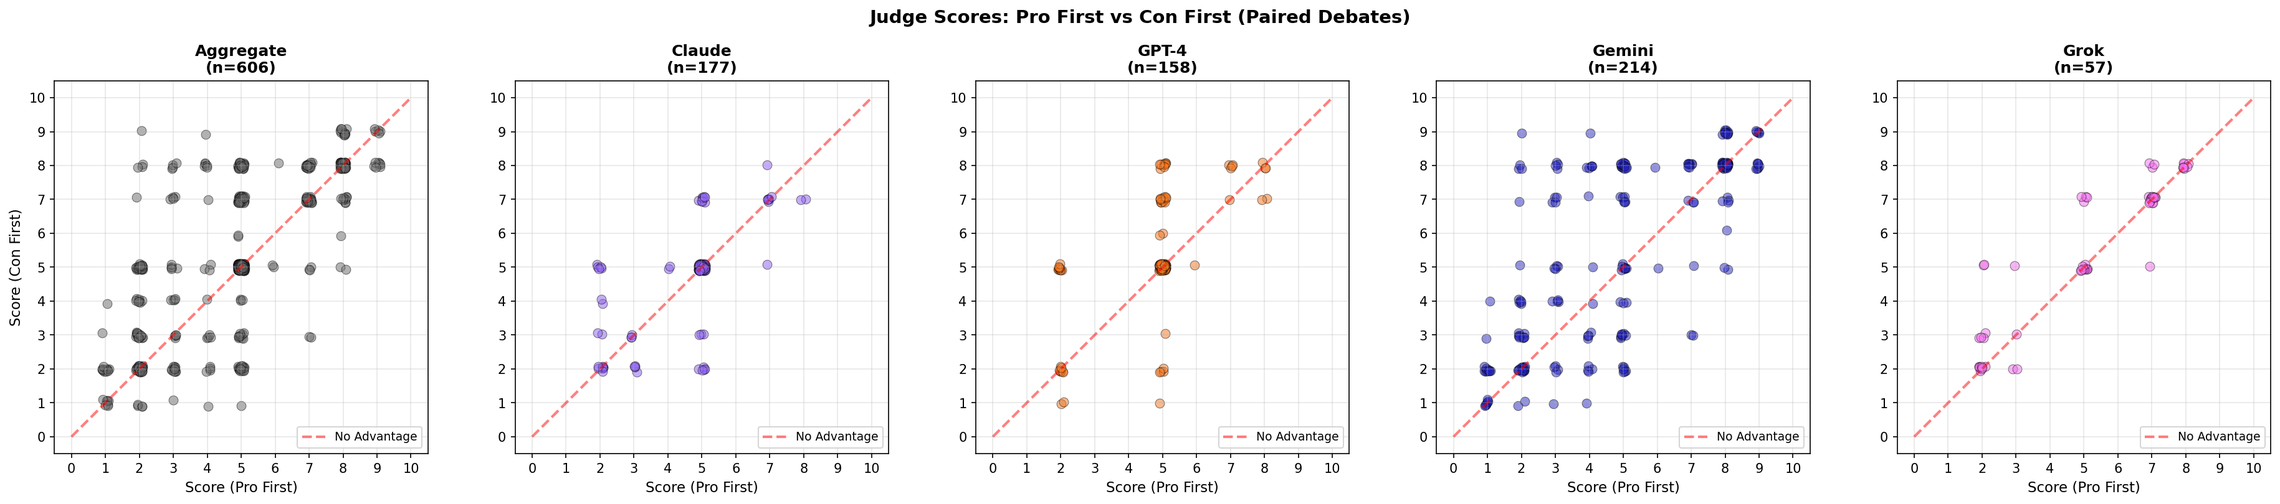
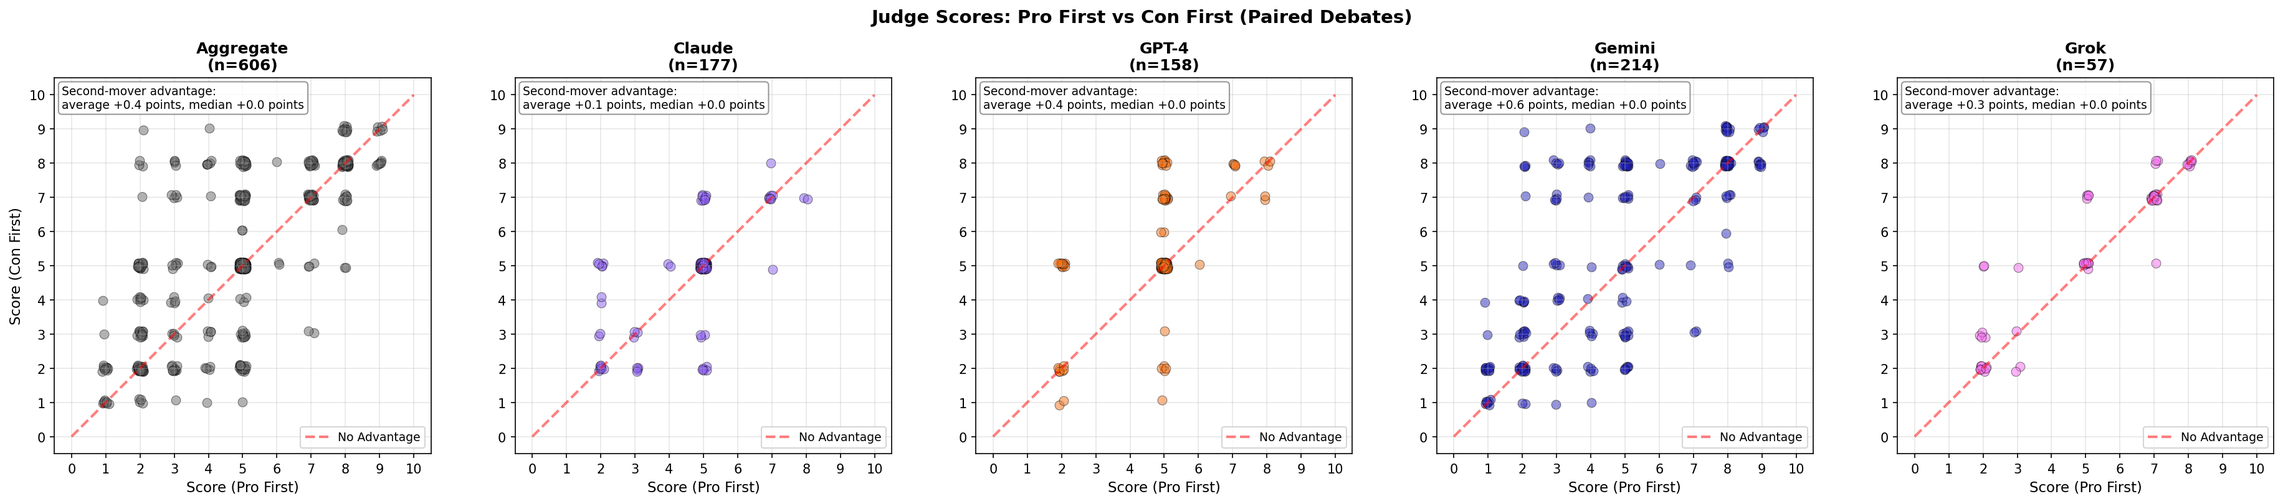
"final" version of writeup

diff --git a/plotting/scripts/create_first_mover_advantage_scatterplot.py b/plotting/scripts/create_first_mover_advantage_scatterplot.py
@@ -166,6 +166,11 @@ def create_first_mover_advantage_scatterplot(output_filename):
             pro_first_scores = [s[0] for s in scores]
             con_first_scores = [s[1] for s in scores]
 
+            # Calculate second-mover advantage (con_first - pro_first)
+            second_mover_advantages = [con - pro for pro, con in zip(pro_first_scores, con_first_scores)]
+            avg_advantage = np.mean(second_mover_advantages)
+            median_advantage = np.median(second_mover_advantages)
+
             # Add jitter to avoid overplotting
             jitter_amount = 0.1
             pro_jittered = [s + np.random.uniform(-jitter_amount, jitter_amount) for s in pro_first_scores]
@@ -176,6 +181,12 @@ def create_first_mover_advantage_scatterplot(output_filename):
 
             # Add diagonal line (no advantage)
             ax.plot([0, 10], [0, 10], 'r--', linewidth=2, alpha=0.5, label='No Advantage')
+
+            # Add second-mover advantage text
+            advantage_text = f'Second-mover advantage:\naverage {avg_advantage:+.1f} points, median {median_advantage:+.1f} points'
+            ax.text(0.02, 0.98, advantage_text, transform=ax.transAxes,
+                   fontsize=9, verticalalignment='top',
+                   bbox=dict(boxstyle='round', facecolor='white', alpha=0.8, edgecolor='gray'))
 
         # Formatting
         ax.set_xlim(-0.5, 10.5)

diff --git a/README.md b/README.md
@@ -15,10 +15,11 @@
 * [Debate Claim Data](#debate-claim-data)
 * [Results and Analysis](#results-and-analysis)
   * [Consistency](#consistency)
-  * [Aggregate Observations of Debaters and Judges](#aggregate-observations-of-debaters-and-judges)
-  * [Examples of Gemini Loving Claude](#examples-of-gemini-loving-claude)
+  * [Who Persuades Whom](#who-persuades-whom)
+  * [Inter-Judge Agreement](#inter-judge-agreement)
+  * [Examples of Gemini's Affinity for Claude](#examples-of-geminis-affinity-for-claude)
   * [Second-Mover Advantage](#second-mover-advantage)
-  * [Easily-Argued Claims (or Implicit Bias)](#easily-argued-claims-or-implicit-bias)
+  * [Easily-Argued Claims or Implicit Bias](#easily-argued-claims-or-implicit-bias)
   * [No Long-Range Stability](#no-long-range-stability)
 * [Further Directions](#further-directions)
 * [Conclusion](#conclusion)
@@ -28,31 +29,33 @@
 We implement [AI Safety Via Debate](https://arxiv.org/abs/1805.00899) (Irving et al., 2018), a proposed mechanism for AI alignment, within the context of natural language debates between LLMs. Through extensive experimentation, we uncover a number of systematic biases that emerge across models, which should be addressed before using this mechanism for RL.
 
 This implementation comprises the following steps, which are each elaborated upon in more detail below.
-- We implement an end-to-end pipeline for running automated debates with two LLM debaters and an LLM judge. This is pipeline is also deployed as a web app [here](https://ai-debate-4-u.vercel.app/).
+- We implement an end-to-end pipeline for running automated debates with two LLM debaters and an LLM judge. This pipeline is also deployed as a web app [here](https://ai-debate-4-u.vercel.app/).
 - We source, clean, and verify datasets of claims to be debated from a variety of sources:
   - the Google Fact Check Tools API;
   - direct generation via LLM;
   - debate motions from popular debate podcasts.
 - We run 280 debates in total, and analyze the results from a number of different angles.
 
-We begin with a brief discussion of the context for this demo project, and we conclude by enumerating some open directions for further investigation.
+We begin with a brief discussion of the context for this demo project, and we conclude by enumerating some open directions for further investigation. (Readers primarily interested in outcomes can skip directly to [Results and Analysis](#results-and-analysis).)
 
-The code itself was written in collaboration with OpenAI Codex (for the web app) and Claude Code (for everything else). The repo itself is carefully organized for further iteration, with extensive technical documentation in [`docs/`](docs/) (see particularly [docs/claude.md](docs/claude.md)). Please feel free to experiment and make a PR!
+The code itself was written in collaboration with OpenAI Codex (for the web app) and Claude Code (for everything else). The repo itself is carefully organized for further iteration, with extensive technical documentation in [`docs/`](docs/) (see particularly [docs/claude.md](docs/claude.md)). Please feel free to run more experiments or analysis and make a PR!
 
 ## Background
 
-The 2018 paper [AI Safety Via Debate](https://arxiv.org/abs/1805.00899) proposes a mechanism for AI alignment: training agents via self-play in a zero-sum debate game. It is proposed that this may be useful in contexts where a human can adequately judge the end result despite not being able to evaluate turn-by-turn performance. (This is the case with complex games like Go or Chess, and the paper draws an extensive analogy with the distinction between P and NP algorithms.) As a proof-of-concept, this is implemented within the context of a very simple "debate" game: given a handwritten digit image from the MNIST dataset, two debater models try to convince a judge model of the true label by iterative revealing pixels turn-by-turn.
+The 2018 paper [AI Safety Via Debate](https://arxiv.org/abs/1805.00899) proposes a mechanism for AI alignment: training agents via self-play in a zero-sum debate game. It is proposed that this may be useful in contexts where a human can adequately judge the end result despite not being able to evaluate turn-by-turn performance. (This is the case with complex games like Go or Chess, and the paper draws an extensive analogy with the distinction between P and NP algorithms.) As a proof-of-concept, this is implemented within the context of a very simple "debate" game: given a handwritten digit image from the MNIST dataset, two debater models try to convince a judge model of the true label by iteratively revealing pixels turn by turn.
 
-The years since 2018 have seen an explosion of progress in both the power and popularity of AI models, particularly ushered in by the "ChatGPT moment" in late 2022. In particular, LLMs are now extremely well-suited to the above mechanism. However, before it can be trusted as a beneficial tool for AI alignement, it must be stress-tested in this new and qualitatively different context. Such stress-testing is the primary purpose of our experiments, to which end we discuss a number of salient observations [below](#results).
+The years since 2018 have seen an explosion of progress in both the power and popularity of AI models, particularly ushered in by the "ChatGPT moment" in late 2022. In particular, LLMs are now extremely well-suited to the above mechanism. However, before it can be trusted as a beneficial tool for AI alignment, it must be stress-tested in this new and qualitatively different context.
+
+Here, we extend that proposal from visual to linguistic domains, allowing LLMs to argue both factual and moral claims. Indeed, such stress-testing is the primary purpose of our experiments, to which end we discuss a number of salient observations [below](#results-and-analysis).
 
 ## Debate Pipeline
 
-A debate consists of two debaters alternating arguments for & against a given claim, followed by a judge's evaluation.
+A debate consists of two debaters alternating arguments for and against a given claim, followed by a judge's evaluation.
 
 A silly example of a debate claim is "A hot dog is a type of sandwich." Another example of a debate claim is "The Holocaust happened."
 
 Each debater is assigned a side, "pro" or "con". They are instructed to debate as strongly as possible in favor of their side (regardless of their own internal beliefs).
- In each turn, each debater is provided with the entire transcript of the debate thus far, and provides:
+ In each turn, each debater receives the full transcript thus far, and provides:
 - evidence in the form of a URL and a quote therefrom;
 - an explanation of the context for the evidence;
 - an argument for their position, based on the evidence provided (and within the context of the debate thus far).
@@ -65,7 +68,7 @@ The user can specify:
 - the number of turns in the debate;
 - whether "pro" or "con" argues first.
 
-In case one or both of the models refuses to debate the claim, their refusal response is incorporated into the debate transcript, and the debate is sent to the judge after the turn is completed. (For example, among the LLMs that we use (Claude Sonnet 4.5, Gemini 2.5 Flash, GPT-4, and Grok 3), only Grok is willing to debate against the claim "The Holocaust happened.")
+In case one or both of the models refuses to debate the claim, their refusal response is incorporated into the debate transcript, and the debate is sent to the judge after the turn is completed. Overall, only 21 of 2,120 total debate turns (≈1%) were refusals, generally when the assigned position contradicted established scientific consensus and/or raised ethical concerns about the spread of misinformation. For example, among the LLMs that we use (Claude Sonnet 4.5, Gemini 2.5 Flash, GPT-4, and Grok 3), only Grok is willing to debate against the claim "The Holocaust happened."
 
 This pipeline is available both as a CLI (using [`scripts/core/debate.py`](scripts/core/debate.py)) and as a [web app](https://ai-debate-4-u.vercel.app/).
 
@@ -75,7 +78,7 @@ Here is an example of the above silly claim being debated via the web app.
   <img src="docs/assets/hot-dog-screenshot.png" alt="Screenshot of hot dog debate." width="600" style="max-width: 100%; height: auto;">
 </p>
 
-The web app is written in TypeScript, built with Next.js, and deployed on Vercel. In order to limit developer costs, the web app features rate-limiting: each IP address receives 5 free uses per model per day, and a global backstop ensures that no model is used more than 200 times per day. An Upstash/Redis database records usage (with IP addressed hashed for safety), both to handle rate-limiting and to afford the possibility of using user-generated debates as experiment data.
+The web app is written in TypeScript, built with Next.js, and deployed on Vercel. In order to limit developer costs, the web app features rate-limiting: each IP address receives 5 free uses per model per day, and a global backstop ensures that no model is used more than 200 times per day. An Upstash/Redis database records usage (with IP addresses hashed for safety), both to handle rate-limiting and to afford the possibility of using user-generated debates as experiment data.
 
 ## Debate Claim Data
 
@@ -84,23 +87,25 @@ As noted [above](#overview), we source, clean, and verify datasets of claims to 
 1. direct generation via LLM;
 1. debate motions from popular debate podcasts.
 
-At a minimum, each claim consists of a claim text as well as a topic; for instance, the claim "Vaccines containing mRNA technology alter a person's DNA permanently." is tagged with the topic "health". The topics are drawn from the following list: "climate", "economics", "environment", "health", "politics", "religion", "science", "technology".
+Each claim includes at least the claim text as well as a topic; for instance, the claim "Vaccines containing mRNA technology alter a person's DNA permanently." is tagged with the topic "health". The topics are drawn from the following list: "climate", "economics", "environment", "health", "politics", "religion", "science", "technology".
 
 The GFCT API serves factual claims that are submitted by fact-checking organizations (e.g. PolitiFact) and accompanied by verdicts (e.g. "mostly false") and links to articles with further details. Cleaning them amounts to clarifying the claims when they are vague or imprecise, assigning ground-truth values, and labeling by topic. Verifying them amounts to checking that the linked articles indeed support the corresponding verdicts (which is not always the case).
 
-The debate podcasts used are "Munk Debates", "Open To Debate", and "Soho Forum". These podcasts feature debates by (human) experts, who argue for and against such claims as "Anti-Zionism is anti-Semitism." The debates are evaluated by polling the audience on their opinions before and after the debate, and determining the winner based on the change in audience opinion. (For instance, the audience agreement with the anti-Zionism claim rose from 61% to 66% through the debate, and so the "pro" side was decared the winner.) These debates were of course conducted within the context of their respective present moments, and so here we modify the debate claims to explicitly name this context (e.g. "As of July 2025, President Trump's deportation policies generally violated key civil liberties as set forth in the U.S. Constitution.") and we require the debaters to argue within that same context (so e.g. they cannot reference any events that have happened in the meantime).
+The debate podcasts used are "Munk Debates", "Open To Debate", and "Soho Forum". These podcasts feature debates by (human) experts, who argue for and against such claims as "Anti-Zionism is anti-Semitism." The debates are evaluated by polling the audience on their opinions before and after the debate, and determining the winner based on the change in audience opinion. (For instance, the audience agreement with the anti-Zionism claim rose from 61% to 66% through the debate, and so the "pro" side was declared the winner.) These debates were of course conducted within the context of their respective historical moments, and so here we modify the debate claims to explicitly name this context (e.g. "As of July 2025, President Trump's deportation policies generally violated key civil liberties as set forth in the U.S. Constitution.") and we require the debaters to argue within that same context (so e.g. they cannot reference any events that have happened in the meantime).
 
-The various raw, cleaned, and verified datasets are all stored as json files in [`data/`](/data); the cleaning and verification scripts are in [`/scripts/data_processing/`](/scripts/data_processing/). All natural language tasks (e.g. clarifying vague claims and labeling by topic) are accomplished via LLM API calls (and spot-checked for accuracy after the fact).
+The various raw, cleaned, and verified datasets are all stored as JSON files in [`data/`](/data); the cleaning and verification scripts are in [`scripts/data_processing/`](scripts/data_processing/). All natural language tasks (e.g. clarifying vague claims and labeling by topic) are accomplished via LLM API calls (and spot-checked for accuracy after the fact).
 
 ## Results and Analysis
 
-Each experiment is comprised of a suite of debates between the same debaters, as well as one or more judgments. All experiment data is saved in the SQLite database [`data/experiments.db`](data/experiments.db). A flurry of observations follows. (The following plots and many more can be found in [`plotting/plots/`](plotting/plots/); click the plots themselves here to see larger versions.)
+Below we enumerate some key quantitative and qualitative findings from 280 automated debates.
+
+All experiment data is saved in the SQLite database [`data/experiments.db`](data/experiments.db). The following plots and many more can be found in [`plotting/plots/`](plotting/plots/); click on the plots themselves here to see larger versions.
 
 ### Consistency
 
-First and foremost, it's worth noting that judgments of a given debate by a given judge are quite stable -- perhaps surprisingly so (given that the LLMs themselves exhibit randomness (i.e. have temperature > 0)). Specifically, for each judge we find the following correlations between their two judgments of the same debate: Claude has 0.87, Gemini has 0.84, GPT-4 has 0.82, and Grok has 0.79. See the figures in [`plotting/plots/debate-motions-with-duplicate-judging/`](plotting/plots/debate-motions-with-duplicate-judging/) and their corresponding figures in [`plotting/plots/debate-motions/`](plotting/plots/debate-motions/) for details.
+First and foremost, it's worth noting that judgments of a given debate by a given judge are strikingly consistent (despite stochastic sampling, i.e. with temperature > 0). Specifically, for each judge we find the following correlations between their two judgments of the same debate: Claude has 0.87, Gemini has 0.84, GPT-4 has 0.82, and Grok has 0.79. This indicates that stochastic variation at inference time affects content more than judgment, suggesting that evaluative biases are structural rather than random. See the figures in [`plotting/plots/debate-motions-with-duplicate-judging/`](plotting/plots/debate-motions-with-duplicate-judging/) and their corresponding figures in [`plotting/plots/debate-motions/`](plotting/plots/debate-motions/) for details.
 
-### Aggregate Observations of Debaters and Judges
+### Who Persuades Whom
 
 The following violin plots illustrate a number of interesting observations.
 
@@ -108,23 +113,29 @@ The following violin plots illustrate a number of interesting observations.
   <img src="plotting/plots/judge-debater-agreement-violin/judge_debater_agreement_violin_grid.png" width="1000" style="max-width: 100%; height: auto;">
 </p>
 
-- Claude is generally the strongest debater: the split violin plots in its column are generally the most positively-sloped (indicating low scores when it's arguing "con" and high scores when it's arguing "pro"), and it's particularly convincing to Gemini -- and extremely convincing to Grok specifically when it's arguing "con".
+- Claude is generally judged to be the strongest debater: the split violin plots in its column are generally the most positively-sloped (indicating low scores when it's arguing "con" and high scores when it's arguing "pro"), and it's particularly convincing to Gemini — and extremely convincing to Grok specifically when it's arguing "con".
 - By contrast, both Gemini and Grok are particularly unconvinced by GPT-4's debates.
 - Claude and GPT-4 are quite conservative as judges, generally giving scores of 4-6. Gemini is the most easily swayed towards an extreme position, and Grok errs towards contrarianism.
 
-The following bubble plot shows that despite their differences in temperment (with Claude much more restrained), Claude and Grok are fairly well-correlated as judges.
+These patterns are consistent with both genuine differences in debater strength and stylistic affinity of a given judge for a given debater; the latter can raise scores even when the logical content is unchanged.
+
+For further analysis of debater strength, we ran 6-turn debates among all six pairwise matchups (among the four debater models), all centered around a single claim ("Political correctness represents genuine progress."), with four debates in each matchup to control for possible advantages due to arguing pro/con and arguing first/second; all 24 6-turn debates were judged at all turns by all four judges (for a total of 576 judgments). These are not terribly conclusive (especially since many of the judges consistently determine that more evidence is needed — especially after just one turn (≈32%)), but generally display the same phenomena described above; see the corresponding plots in [`plotting/plots/debate-motions/`](plotting/plots/debate-motions/).
+
+### Inter-Judge Agreement
+
+The following bubble plot shows that despite their differences in temperament (with Claude much more restrained), Claude and Grok are moderately correlated as judges.
 
 <p align="center">
   <img src="plotting/plots/judge-judge-agreement-bubbleplot/claude-grok-judge-judge-agreement.png" width="600" style="max-width: 100%; height: auto;">
 </p>
 
-For further analysis of debater strength, we conduct a suite of six sub-suites of four 6-turn debates, all judged by all four judge models, all centered around the single claim "Political correctness represents genuine progress." Each sub-suite corresponds to a choice of two (distinct) debater models, and the four debates correspond to the possible choices for which debater argues "pro" and whether "pro" goes first. These are not terribly conclusive (especially since many of the judges consistently determine that more evidence is needed), but generally display the same phenomena described above; see the corresponding plots in [`plotting/plots/debate-motions/`](plotting/plots/debate-motions/).
+This is the most highly-correlated pair of judges; analogous plots for all pairings can be found in [`plotting/plots/judge-judge-agreement-bubbleplot`](plotting/plots/judge-judge-agreement-bubbleplot). Altogether, this lack of overall agreement indicates a major potential pitfall of AI alignment via debate.
 
-### Examples of Gemini Loving Claude
+### Examples of Gemini's Affinity for Claude
 
 The following plots illustrate Gemini judging Claude very favorably.
 
-These first two images show that Gemini judges Claude as the winner when it argues for either side of the same claim -- even when the claims are fairly black-and-white.
+These first two images show that Gemini consistently judges Claude as the winner when it argues for either side of the same claim — even when the claims are fairly black-and-white.
 
 <p align="center">
   <img src="plotting/plots/score-by-turn-pairs/radiation-danger_debaters-claude-gpt4_judge-gemini.png" width="600" style="max-width: 100%; height: auto;">
@@ -134,7 +145,7 @@ These first two images show that Gemini judges Claude as the winner when it argu
   <img src="plotting/plots/score-by-turn-pairs/population-8-billion_debaters-claude-gpt4_judge-gemini.png" width="600" style="max-width: 100%; height: auto;">
 </p>
 
-These second two images show Gemini more-or-less _uniquely_ favoring Claude's argumentation -- the latter showing that this persists even when Claude is debating against Gemini itself.
+These latter two images show Gemini more-or-less _uniquely_ favoring Claude's argumentation — the latter showing that this persists even when Claude is debating against Gemini itself.
 
 <p align="center">
   <img src="plotting/plots/debate-motions/sex_work_debates_claude_gpt4.png" width="600" style="max-width: 100%; height: auto;">
@@ -146,7 +157,7 @@ These second two images show Gemini more-or-less _uniquely_ favoring Claude's ar
 
 ### Second-Mover Advantage
 
-The following scatterplots show that a modest advantage is obtained by debating second (within each turn), i.e. by responding to the other debater's claims. (This mirrors the known "last-word advantage" in human debates.) Each dot represents a single debate configuration that was carried out twice, once with "pro" starting and once with "con" starting (but with all other parameters held fixed). Thus, the dashed lines represent order-agnostic judging; datapoints below them indicate first-mover advantage, while datapoints above them indicate second-mover advantage.
+The following scatterplots show that a modest advantage is obtained by debating second (within each turn), i.e. by responding to the other debater's claims: on average, +0.4 points (aggregated across all judges and all debate turns). (This mirrors the known "last-word advantage" in human debates.) Each dot represents a single debate configuration that was carried out twice, once with "pro" starting and once with "con" starting (but with all other parameters held fixed). Thus, the dashed lines represent order-agnostic judging; data points below them indicate first-mover advantage, while data points above them indicate second-mover advantage.
 
 <p align="center">
   <img src="plotting/plots/first-mover-advantage-scatterplot/first-mover-advantage.png" width="600" style="max-width: 100%; height: auto;">
@@ -154,7 +165,7 @@ The following scatterplots show that a modest advantage is obtained by debating 
 
 ### Easily-Argued Claims or Implicit Bias
 
-In a number of debates, the judges are fairly consistent in either agreeing or disagreeing with the claim, regardless of who is debating each side. However, these claims are all debate motions (i.e. without a completely objective truth to them) -- debatable enough to be good topics of debate podcasts -- which suggests that the judge models may carry some amount of implicit bias.
+In a number of debates, the judges are fairly consistent in either agreeing or disagreeing with the claim, regardless of who is debating each side. However, these claims are all debate motions (i.e. without a completely objective truth to them) — debatable enough to be good topics of debate podcasts — which suggests that the judge models may carry some latent priors about social desirability that bias their assessment of argumentative quality. In other words, even absent objective truth, the judge models may infer social consensus cues as a proxy for correctness.
 
 <p align="center">
   <img src="plotting/plots/debate-motions/surveillance_debates_claude_gemini.png" width="600" style="max-width: 100%; height: auto;">
@@ -174,7 +185,7 @@ In a number of debates, the judges are fairly consistent in either agreeing or d
 
 ### No Long-Range Stability
 
-When judges rate a long debate after each turn, one might hope that they "make up their minds" after a few turns, and exhibit lower variance in their scores changes during the later turns (so that the end result of the debate is not very dependent on the number of turns so long as it is sufficiently large). However, this did not bear out in the experiments, as illustrated in the following heatmap of score changes (removing all changes of 0 so the others become more visible).
+When judges rate a long debate after each turn, one might hope that they "make up their minds" after a few turns, and exhibit lower variance in their score changes during the later turns (so that the end result of the debate is not very dependent on the number of turns so long as it is sufficiently large). However, this did not bear out in the experiments, as illustrated in the following heatmap of score changes (removing all changes of 0 to accentuate non-zero variation).
 
 <p align="center">
   <img src="plotting/plots/judge-score-change-histogram/judge-score-changes_no_zeros.png" width="1000" style="max-width: 100%; height: auto;">
@@ -186,6 +197,8 @@ A number of further directions remain to be explored.
 
 1. One might introduce multiple models from the same vendor (e.g. GPT-4 and GPT-5) and assess their differences both as debaters and as judges.
 
+1. One might add an additional postprocessing step of having a single model reword all arguments in its own rhetorical style, to determine whether judges are convinced by a debater's actual arguments or merely by its rhetorical style.
+
 1. One might label claims by how controversial they are and by their political polarity (if any), to see if debaters and judges carry implicit biases along these axes.
 
 1. Similarly, one might decompose the above plots by topic (as they have already been labeled), to see if any debaters or judges carry implicit biases on any of these topics.
@@ -194,12 +207,12 @@ A number of further directions remain to be explored.
 
 1. One might save snapshots of the cited webpages, and verify that they contain the claimed evidence.
 
-1. One might incorporate a pipeline that extracts specific fact-based claims from news articles and then puts them up for debate -- a sort of "AI-powered Snopes" for ascertaining the credibility of various news sources.
+1. One might incorporate a pipeline that extracts specific fact-based claims from news articles and then puts them up for debate — a sort of "AI-powered Snopes" for ascertaining the credibility of various news sources.
 
 1. One might replace the judge with a "mixture-of-experts judge" who synthesizes the judgments of multiple judges.
 
-1. Of course, the ultimate aim is to use this debate mechanism for AI safety. Specifically, one might train an RL policy that learns through self-play within this debate framework. This could manifest as a single policy that updates after debates against a frozen opponent, or alternatively as multiple policies that collectively learn through interated play.
+1. The ultimate aim is to use this debate mechanism for AI safety. Specifically, one might train an RL policy that learns through self-play within this debate framework. This could manifest as a single policy that updates after debates against a frozen opponent, or alternatively as multiple policies that collectively learn through iterated play.
 
 ## Conclusion
 
-Collectively, these findings suggest that modern LLMs exhibit stable yet biased reasoning in adversarial debates. Debate mechanisms improve calibration only modestly, which suggests that robust AI alignment via debate will require ensemble judging or RL finetuning in order to reach reliability.
+Collectively, these findings suggest that modern LLMs exhibit stable yet biased reasoning in adversarial debates. Debate mechanisms improve calibration only modestly, which suggests that robust AI alignment via debate may require better-calibrated judges — potentially RL-finetuned themselves — in order to achieve the desired outcomes from RL-finetuning of debaters.
